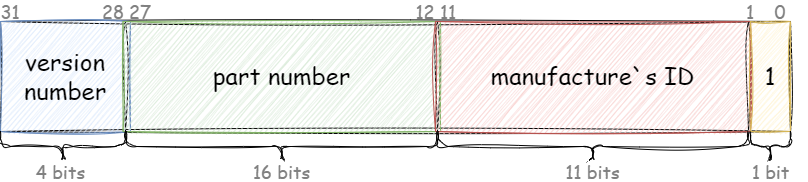
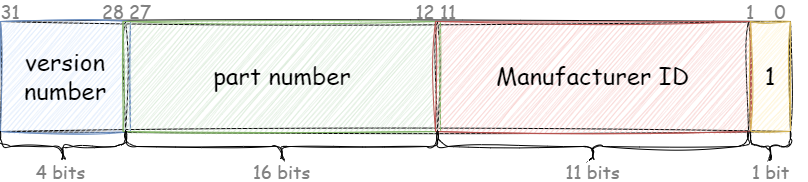
The fixes according review

Changed region(s): [[0.5879, 0.3571, 0.8663, 0.467], [0.2475, 0.3846, 0.4332, 0.4945]]

diff --git a/_posts/2023-11-29-diving-into-jtag-part1.md b/_posts/2023-11-29-diving-into-jtag-part1.md
@@ -82,7 +82,7 @@ JTAG registers are an important part of the microcontroller debugging process be
 Data transfer (read/write) in the JTAG protocol is performed by the shift register principle. In a shift register, the data is transferred sequentially, bit by bit, one per clock cycle.
 
 <p align="center">
-  <img width="650" src="{% img_url jtag-part1/shift-reg.gif %}" alt="JTAG Debug TAP" />
+  <img width="400" src="{% img_url jtag-part1/shift-reg.gif %}" alt="JTAG Debug TAP" />
 </p>
 
 This register is located between the `TDI` and `TDO` pins and is used to receive information from the `TDI` pin and output information to the `TDO` pin. Every time you want to write something to the TAP via JTAG protocol - you set the necessary signals to the `TDI` pin - these signals are synchronously written to the shift register starting from the highest bit and gradually moving to the lowest bit of the register with each new clock, and the value of the lowest bit of the shift register with each clock is moved to the `TDO` pin, from which we can read it.
